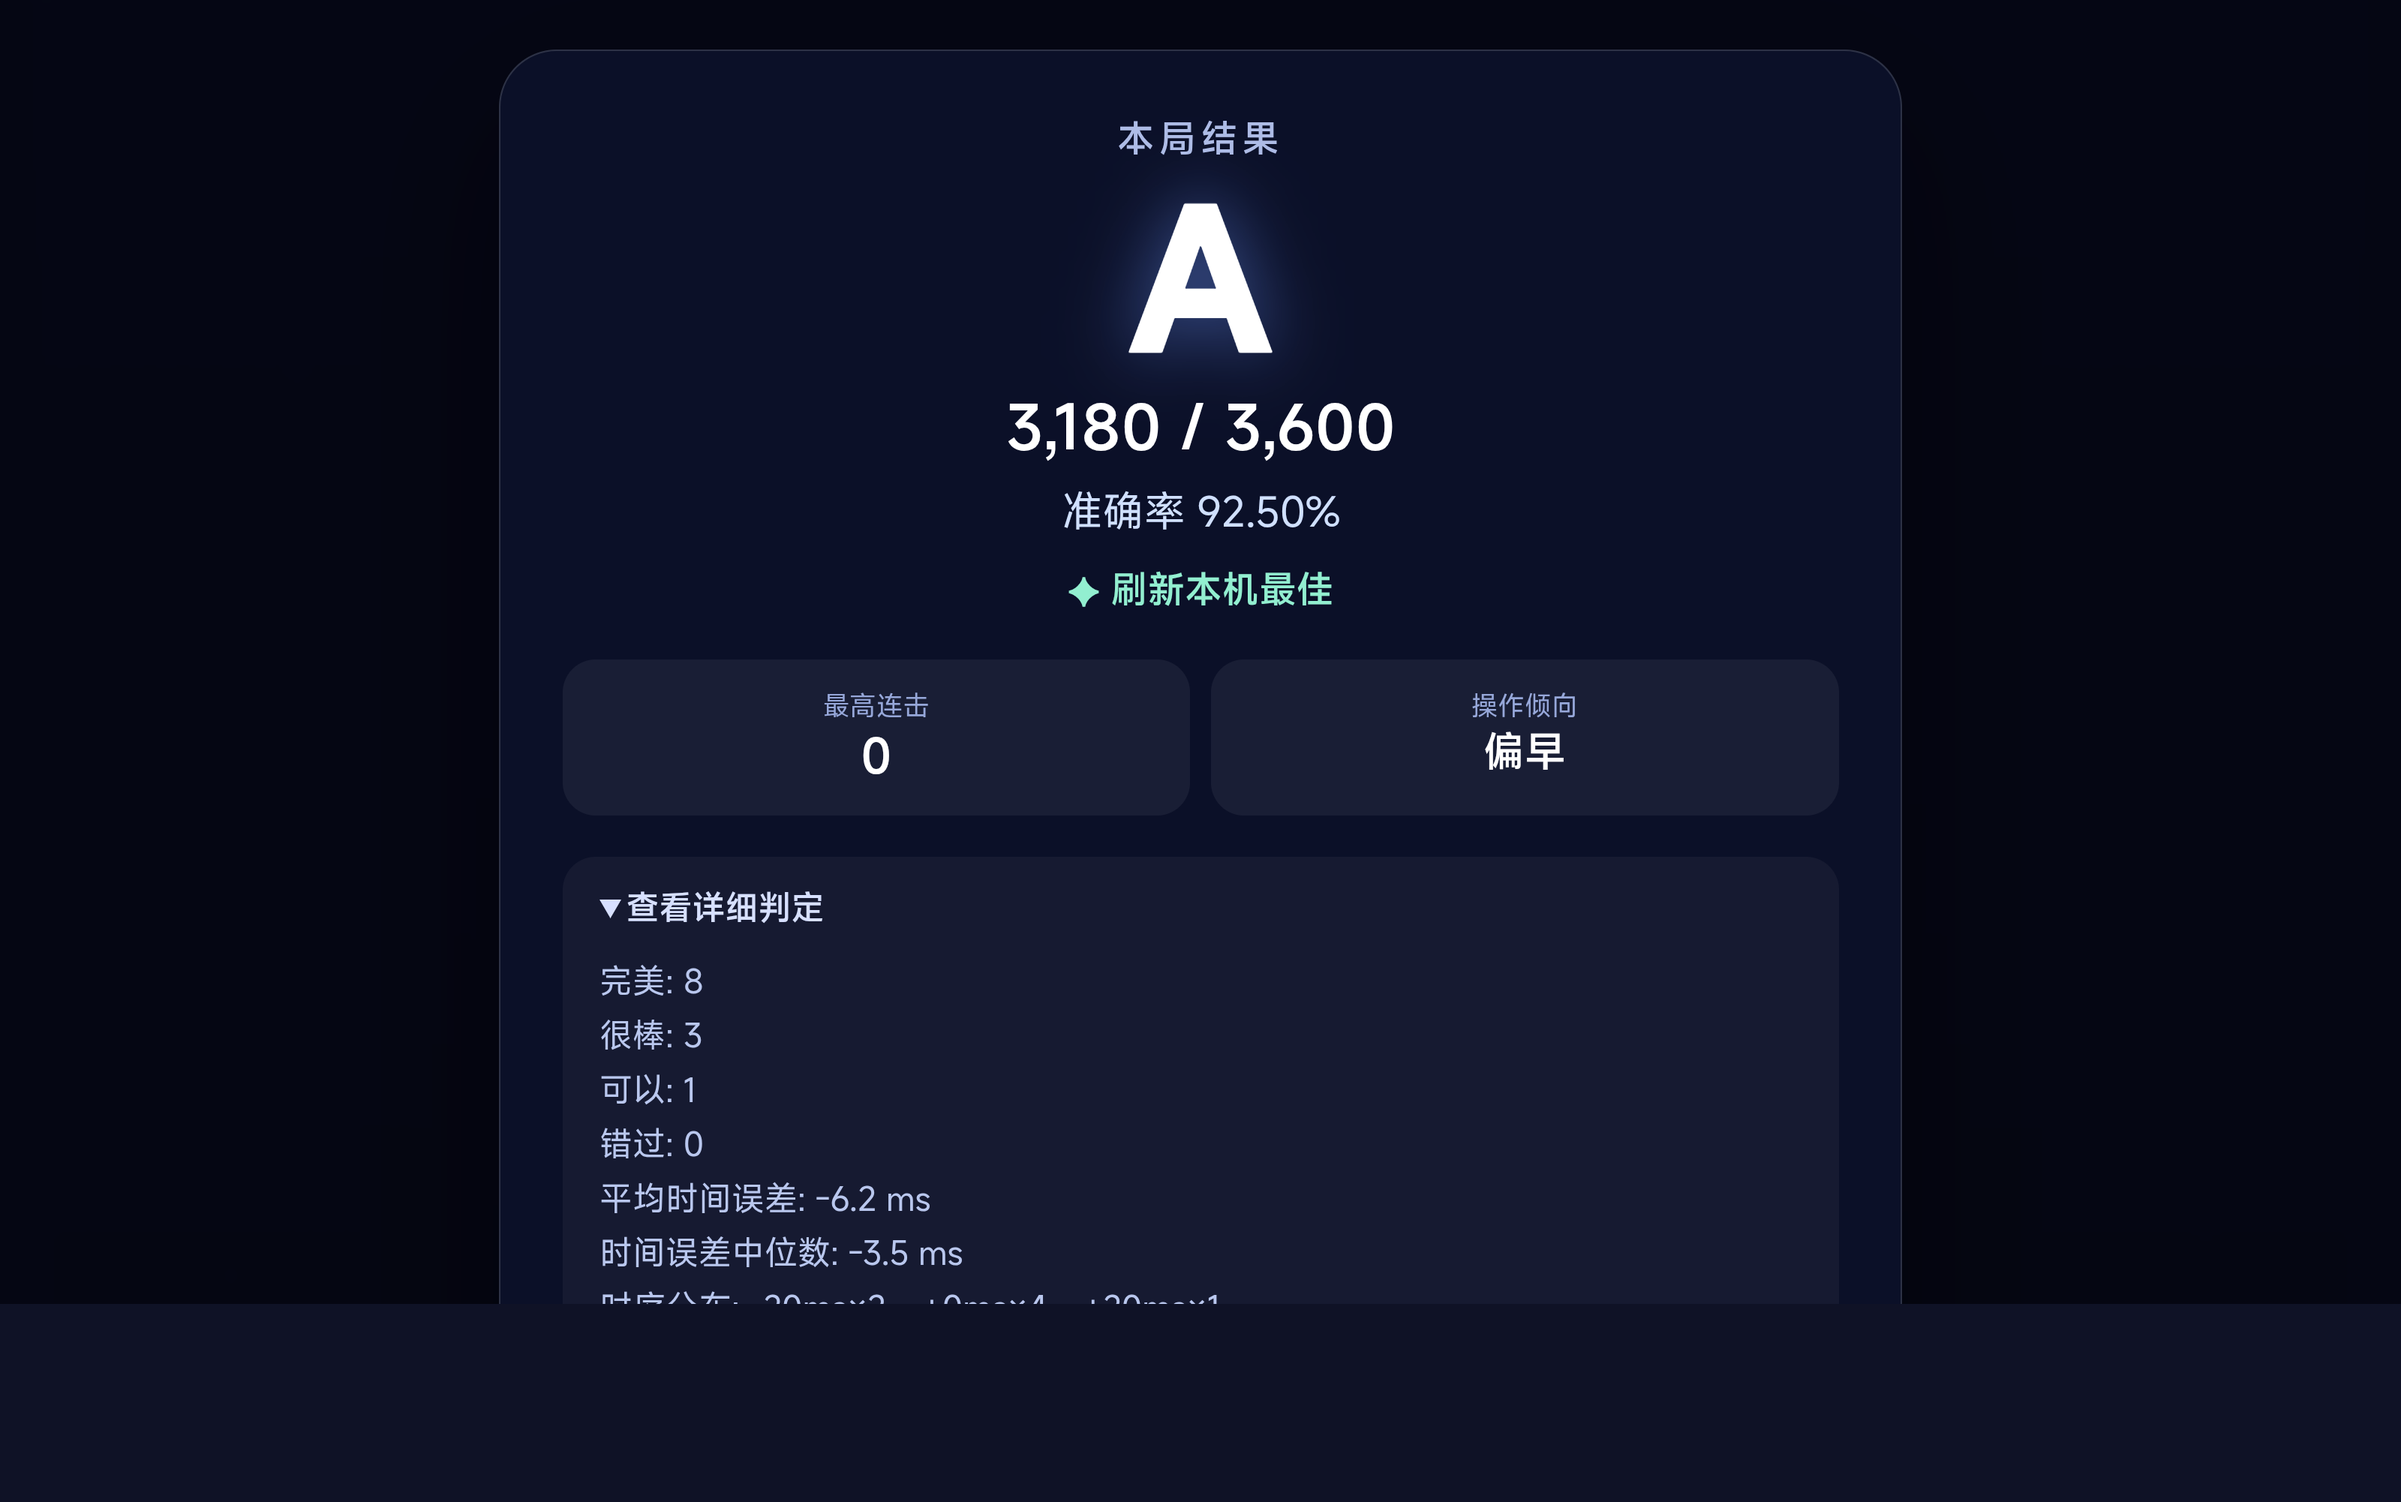
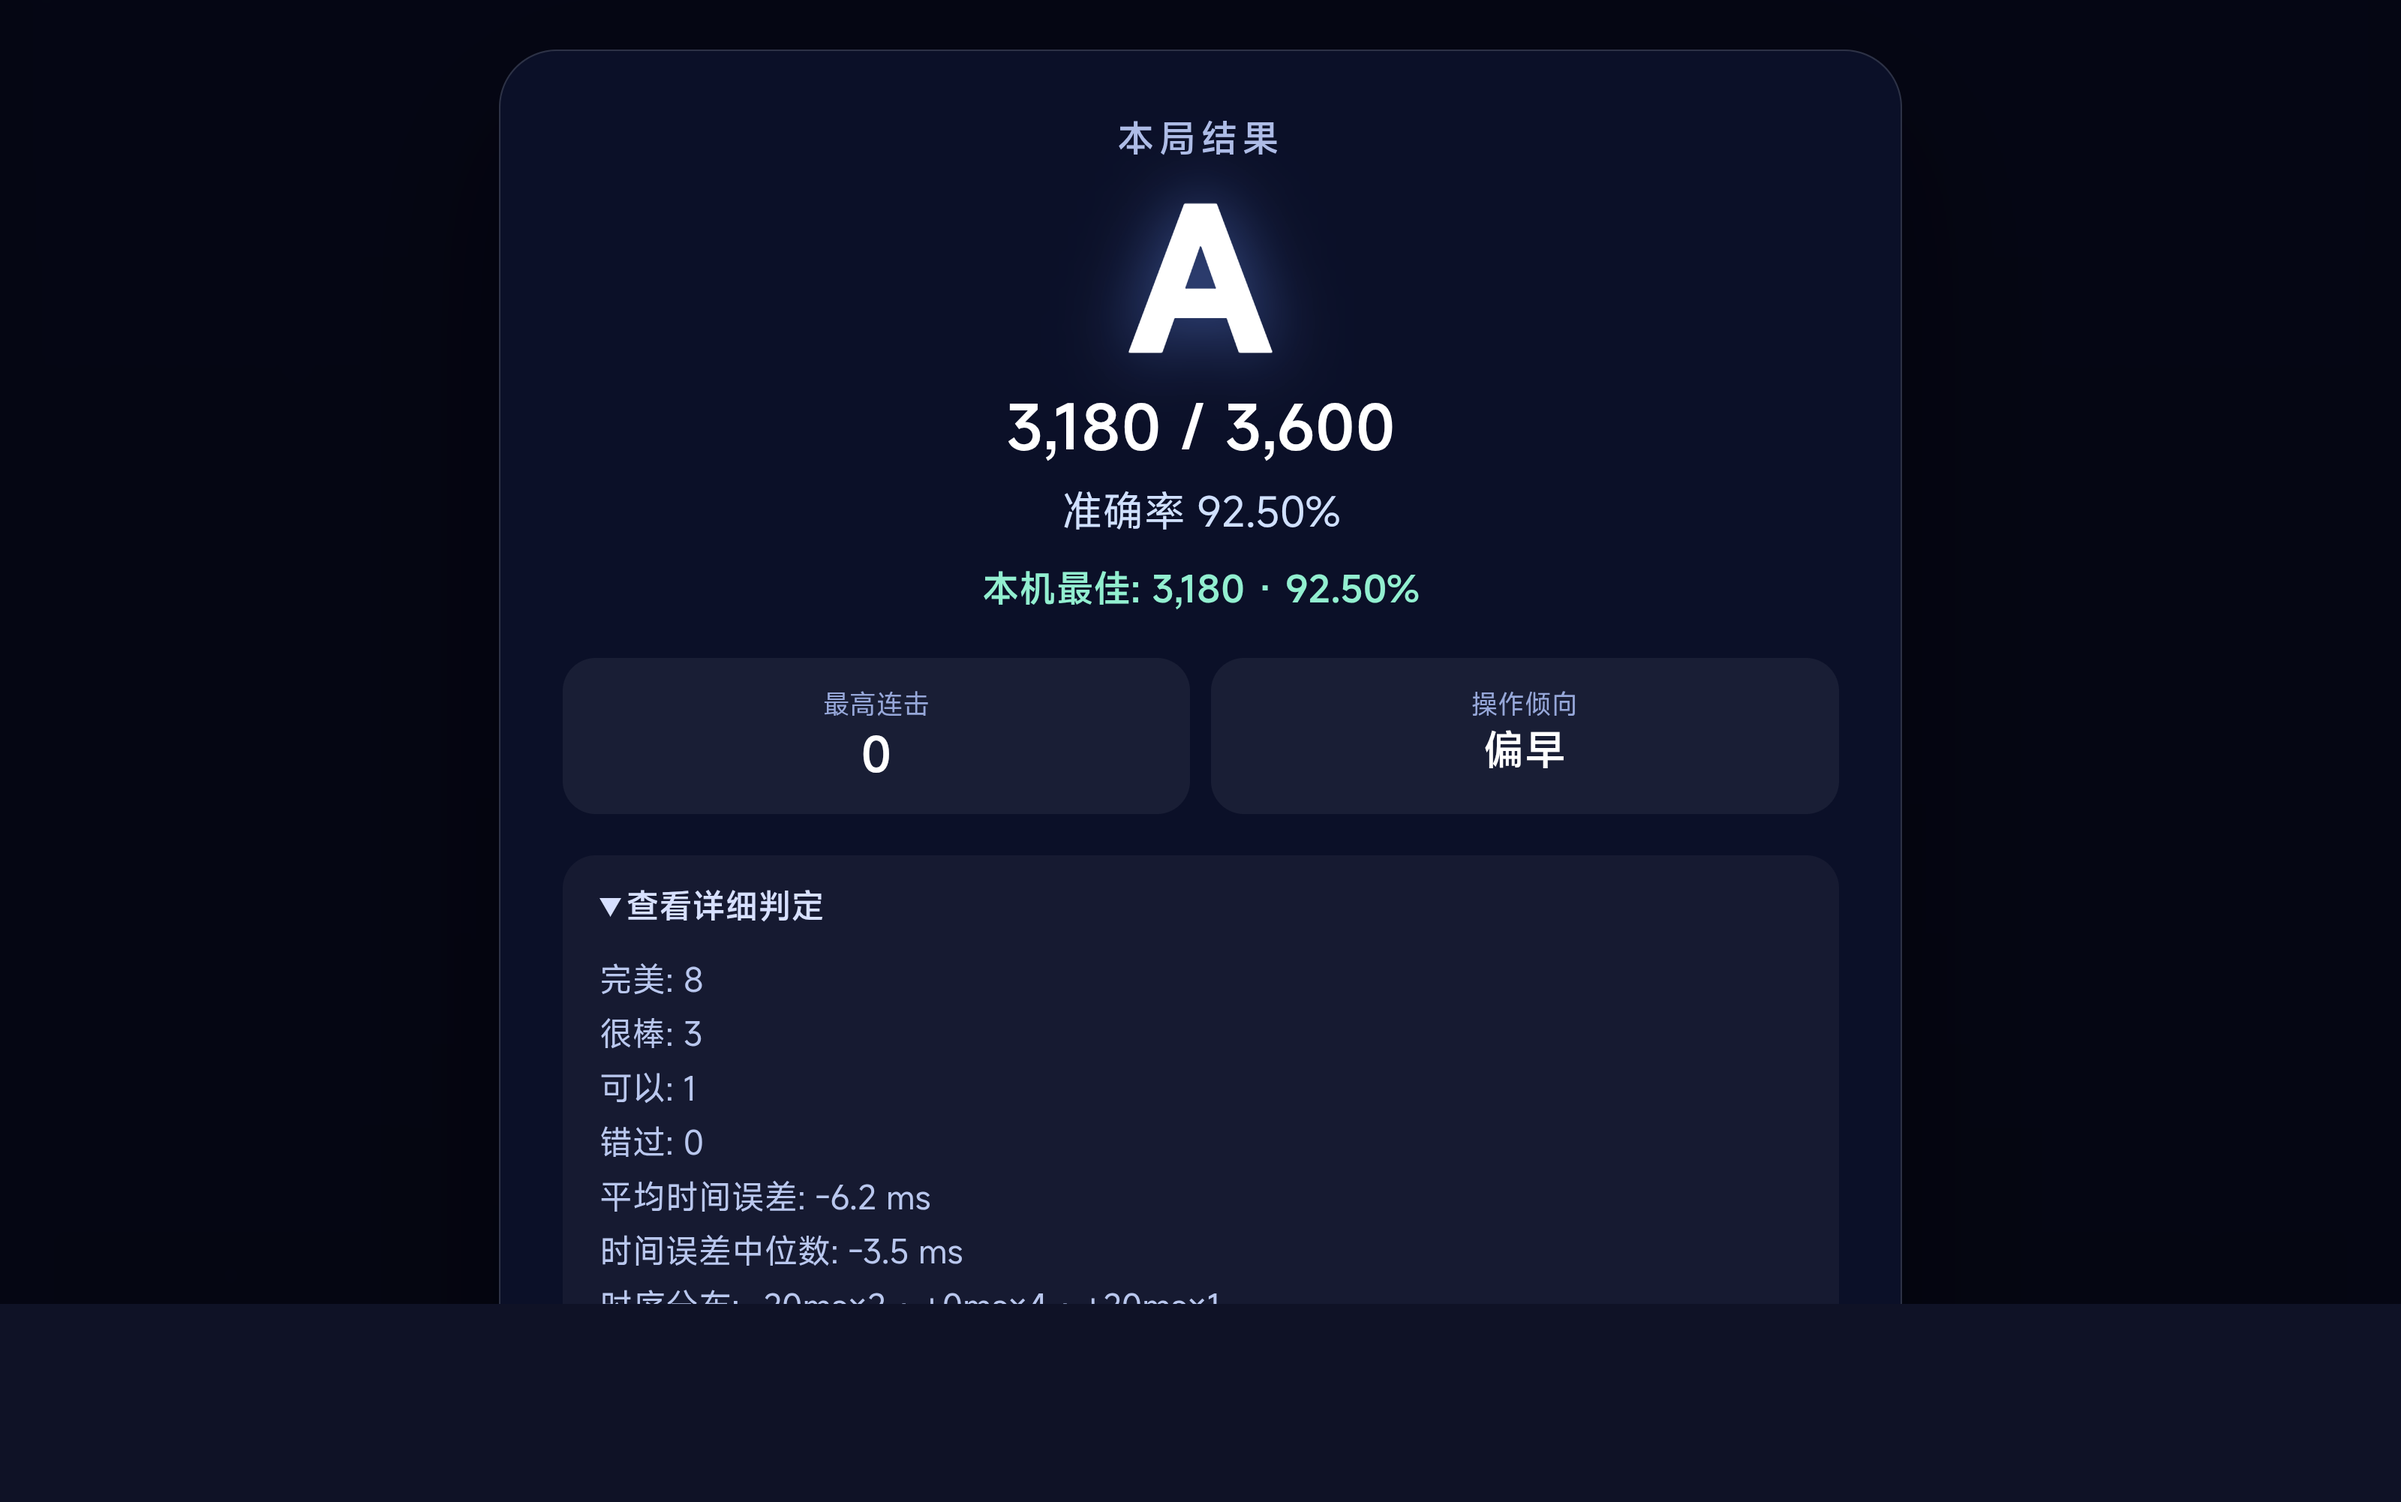
docs(rhythm): close r4 transition evidence

diff --git a/docs/rhythm/STATUS.md b/docs/rhythm/STATUS.md
@@ -33,7 +33,7 @@ Baseline HEAD: `27739e7d6c621c661edfc3b55df981d9e3438f46`
 ### Current product blockers
 
 1. R3: the exact candidate is waiting for independent bounded Gate review; Bridge send confirmation is recoverable but has not produced a nonce-owned message bubble.
-2. R4: implementation and exact verification are complete; independent bounded review must remain ordered after R3.
+2. R4: implementation and exact verification at `2459de0` are complete; independent bounded review must remain ordered after R3.
 3. R5: AutoChart Normal and Hard fixtures both produced all-tap charts; phrase and mixed-gesture playability are not demonstrated.
 
 ## LOG
@@ -135,16 +135,17 @@ Baseline HEAD: `27739e7d6c621c661edfc3b55df981d9e3438f46`
 - Stage Select cards now expose a procedural mechanic preview, concise promise, mechanic/input badge, approximate difficulty, local best grade and local best accuracy. Cards become a reachable single column in a 390×844 viewport.
 - Result presentation now prioritizes Grade, Score, Accuracy, New Best/local best, Best Combo and player-facing early/balanced/late timing tendency. P/G/O/M, mean, median and timing histogram moved into a secondary expandable detail surface.
 - Retry is immediate and primary. Next Stage advances through the authored order without returning to Stage Select; Stage Select remains the tertiary exit. The final stage omits Next Stage rather than wrapping unexpectedly.
+- Menu, stage-instruction and result reveals use a 220 ms non-blocking transition. The first pointer immediately finishes it, reduced-motion disables it, and no transition delays Retry.
 - Result grading, timing-tendency dead zone and New Best comparison are pure deterministic helpers with boundary regression coverage. Simplified Chinese and complete English replacement UI were checked separately.
-- Exact detached verification at `acc1da0`: `npm ci` PASS (87 packages, 0 vulnerabilities); TypeScript lint PASS; 46 files / 297 tests PASS; Pages-base production build PASS. Rhythm main 247.61 kB / gzip 67.77 kB; AutoChart worker 4.61 kB; unchanged out-of-scope Running warning 1.216 MB / gzip 324.98 kB. No Running source was edited.
-- Exact Android runtime `acc1da0` on device `bbda35e` / Xiaomi `24091RPADC`: real CDP `touchStart` / `touchEnd` opened the result detail surface at 1163×632 CSS px / DPR 2.75 and exposed all secondary metrics. `STREAM_MUSIC` remained `Muted:true`, `streamVolume:0` before and after; no audible sound occurred. `auditory calibration validity NOT ASSESSED because media volume was intentionally muted`.
+- Exact detached verification at `2459de0`: `npm ci` PASS (87 packages, 0 vulnerabilities); TypeScript lint PASS; 46 files / 297 tests PASS; Pages-base production build PASS. Rhythm main 248.36 kB / gzip 68.07 kB; AutoChart worker 4.61 kB; unchanged out-of-scope Running warning 1.216 MB / gzip 324.98 kB. No Running source was edited.
+- Exact Android runtime `2459de0` on device `bbda35e` / Xiaomi `24091RPADC`: real CDP `touchStart` / `touchEnd` opened the result detail surface at 1163×632 CSS px / DPR 2.75 and exposed all secondary metrics. `STREAM_MUSIC` remained `Muted:true`, `streamVolume:0` before and after; no audible sound occurred. `auditory calibration validity NOT ASSESSED because media volume was intentionally muted`.
 
 ## PLAN
 
 Next highest-value Rhythm slice:
 
 1. Recover the exact nonce-owned R3 bounded review without duplicating the request; fix only a concrete R3 blocker if returned.
-2. On R3 PASS, submit exact R4 candidate `acc1da0` plus its evidence-only closure for bounded independent review.
+2. On R3 PASS, submit exact R4 candidate `2459de0` plus its evidence-only closure for bounded independent review.
 3. Continue local R5 AutoChart phrase/gesture work while Gate replies are pending; do not pre-claim R4 or R5.
 
 Timing invariant for all future slices:

diff --git a/docs/rhythm/evidence/r4/README.md b/docs/rhythm/evidence/r4/README.md
@@ -1,15 +1,15 @@
 # Rhythm V2 R4 — Menu / Stage Select / Result evidence
 
-Runtime commit under test: `acc1da0`
+Runtime commit under test: `2459de0`
 
 ## Exact detached verification
 
-- Worktree: `/private/tmp/beatgarden-r4-acc1da0`
+- Worktree: `/private/tmp/beatgarden-r4-acc1da0` (detached at `2459de0`)
 - `npm ci`: PASS, 87 packages, 0 vulnerabilities
 - `npm run lint`: PASS
 - `npm test -- --run`: PASS, 46 files / 297 tests
 - `VITE_BASE=/BeatGarden/ npm run build`: PASS
-- Rhythm main: 247.61 kB / gzip 67.77 kB
+- Rhythm main: 248.36 kB / gzip 68.07 kB
 - AutoChart worker: 4.61 kB
 - Existing out-of-scope Running chunk warning: 1,216.79 kB / gzip 324.98 kB
 
@@ -23,6 +23,8 @@ Runtime commit under test: `acc1da0`
   Tendency PASS.
 - Secondary `<details>` contains P/G/O/M, mean, median and timing histogram.
 - Result actions: Retry, Next Stage, Stage Select.
+- Menu, stage instruction and result reveal use a non-blocking 220 ms animation;
+  the first pointer finishes it immediately and reduced-motion disables it.
 - Simplified Chinese and complete English replacement UI checked separately.
 - Browser console: no warning/error observed during the R4 flows.
 
